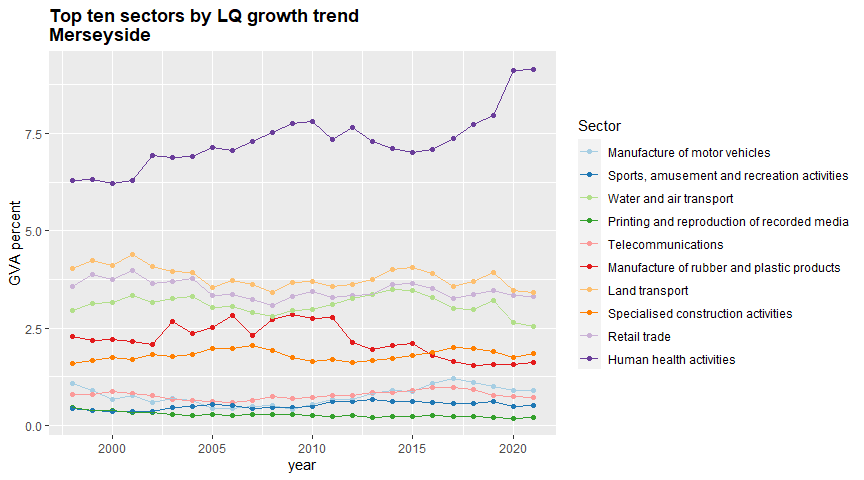
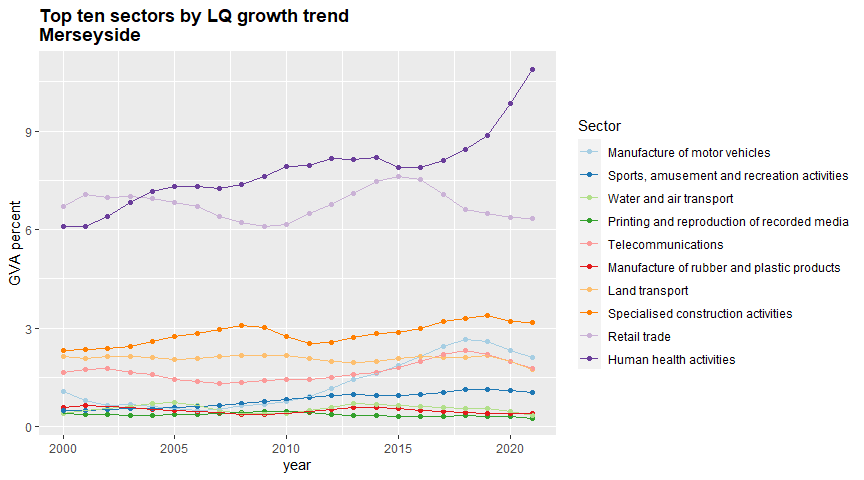
Correct error in chart

diff --git a/README.md b/README.md
@@ -692,7 +692,7 @@ timeplot.sectors <- itl2.cp %>%
 
 #Moving averages
 timeplot.sectors <- timeplot.sectors %>% 
-  group_by(ITL_region_name) %>% 
+  group_by(SIC07_description) %>% 
   arrange(year) %>% 
   mutate(
     LQ_movingav = rollapply(LQ,3,mean,align='right',fill=NA),
